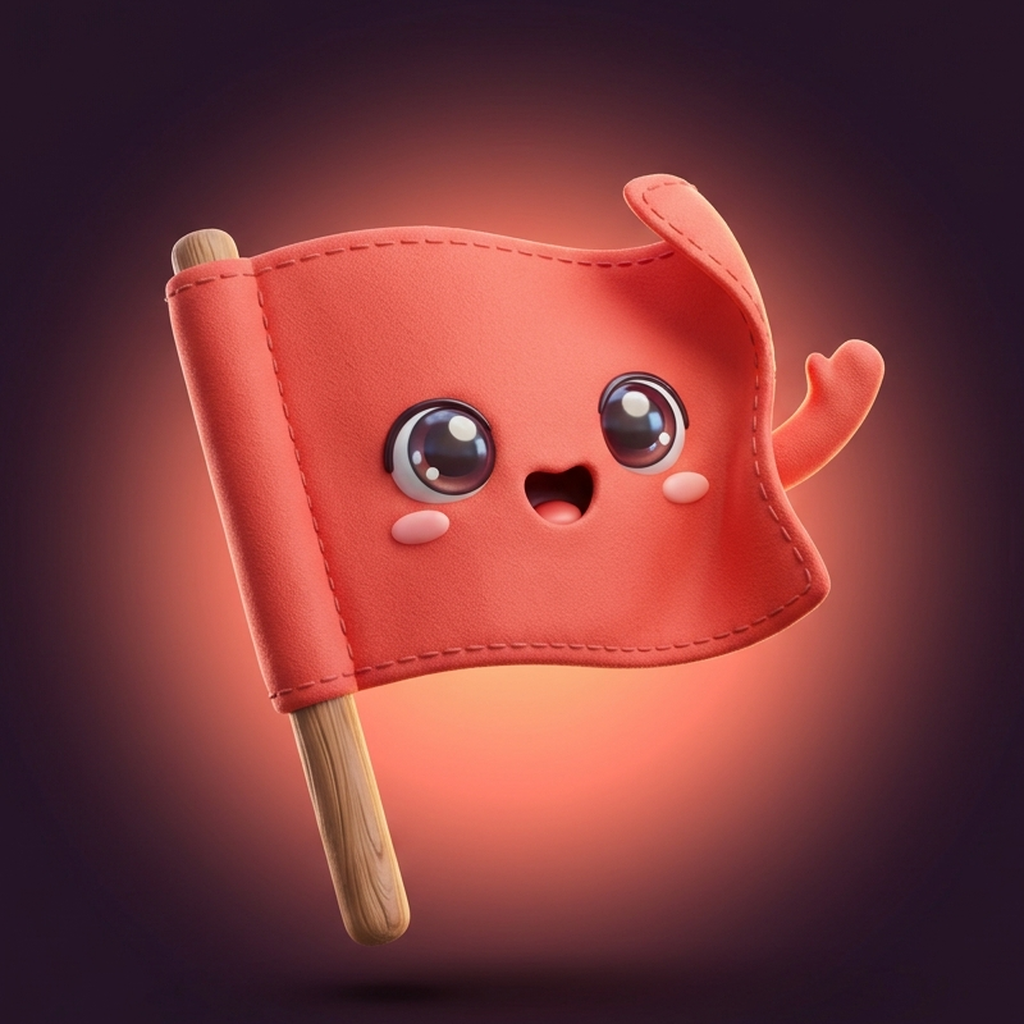
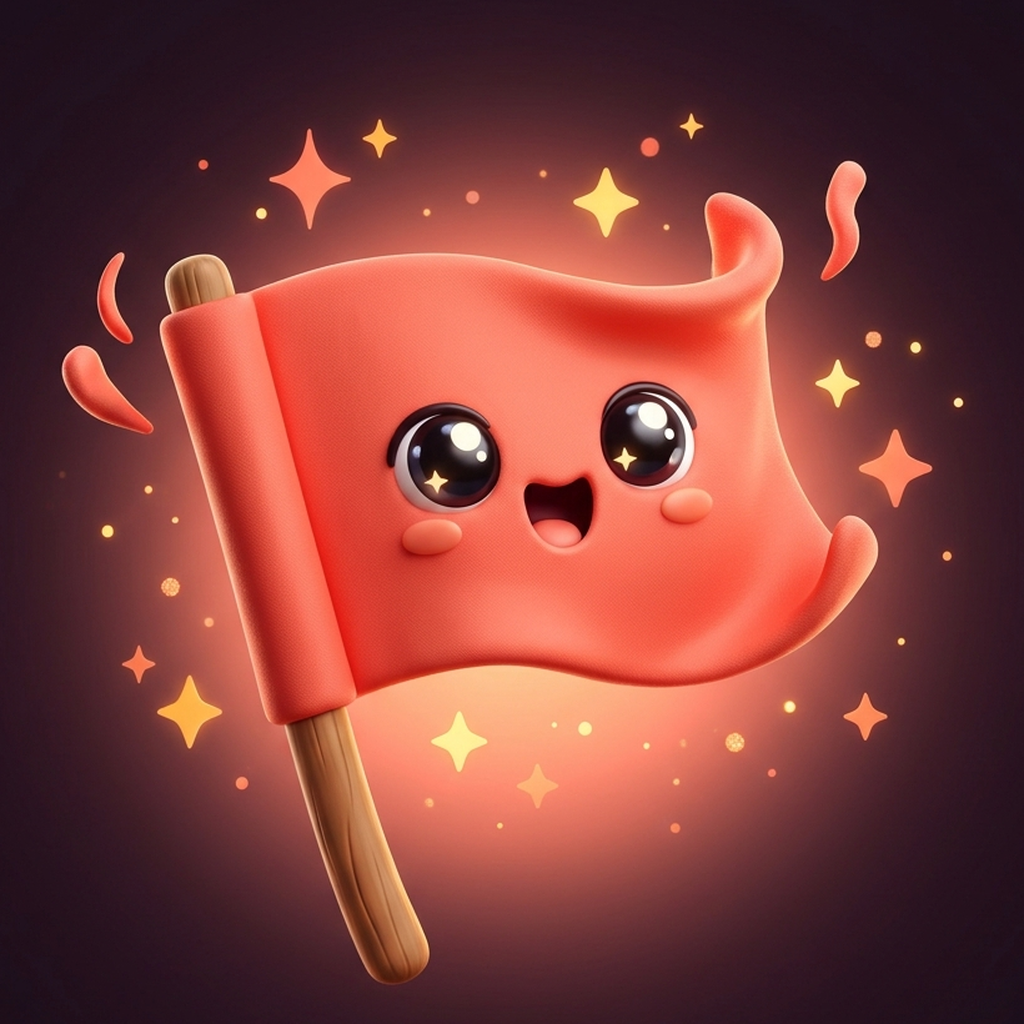
App-Symbol: Variante B (Fähnchen mit Funkeln), Raouls Wahl
Claude-Session: https://claude.ai/code/session_01RwQEs2d4UKRMNDjdMcAsAm

diff --git a/CLAUDE.md b/CLAUDE.md
@@ -65,5 +65,5 @@ Kernversprechen: "Wieder klar sehen." Fabrik-App (Hintergrund: `claude-wissen/wi
 - PDF-Export der Einträge als Premium-Grund (gewünscht, später).
 - Texte sprechen von "er/ihm". Raoul (11.11.2026): Entscheidung nach Recherche, welche Pronomen die viralen US-Skripte der Nische nutzen.
 - Hilfe-Nummern für DE, AT, CH in `src/data/hilfe.ts` (Stand 11.11.2026), vor Veröffentlichung prüfen. Kurzliste im Ergebnis zeigt nur DE-Nummern, später nach Land wählen.
-- Datenschutzerklärung, App-Icon = lebendiges Fähnchen (Variante A, `docs/maskottchen-ideen/icon-variante-A.png`, Raoul 23.11.2026: Symbol Fähnchen, in der App das Knäuel), Store-Texte, Support-Adresse aurorealis.apps@gmail.com.
+- Datenschutzerklärung, App-Icon = lebendiges Fähnchen mit Funkeln (Variante B, `docs/maskottchen-ideen/icon-variante-B.png`, Raoul 23.11.2026: Symbol Fähnchen, in der App das Knäuel), Store-Texte, Support-Adresse aurorealis.apps@gmail.com.
 - Einwilligung und PostHog erst, wenn Statistik gewollt ist (Eventnamen aus `wissen/werkzeuge.md`, nie Eintragstexte).
